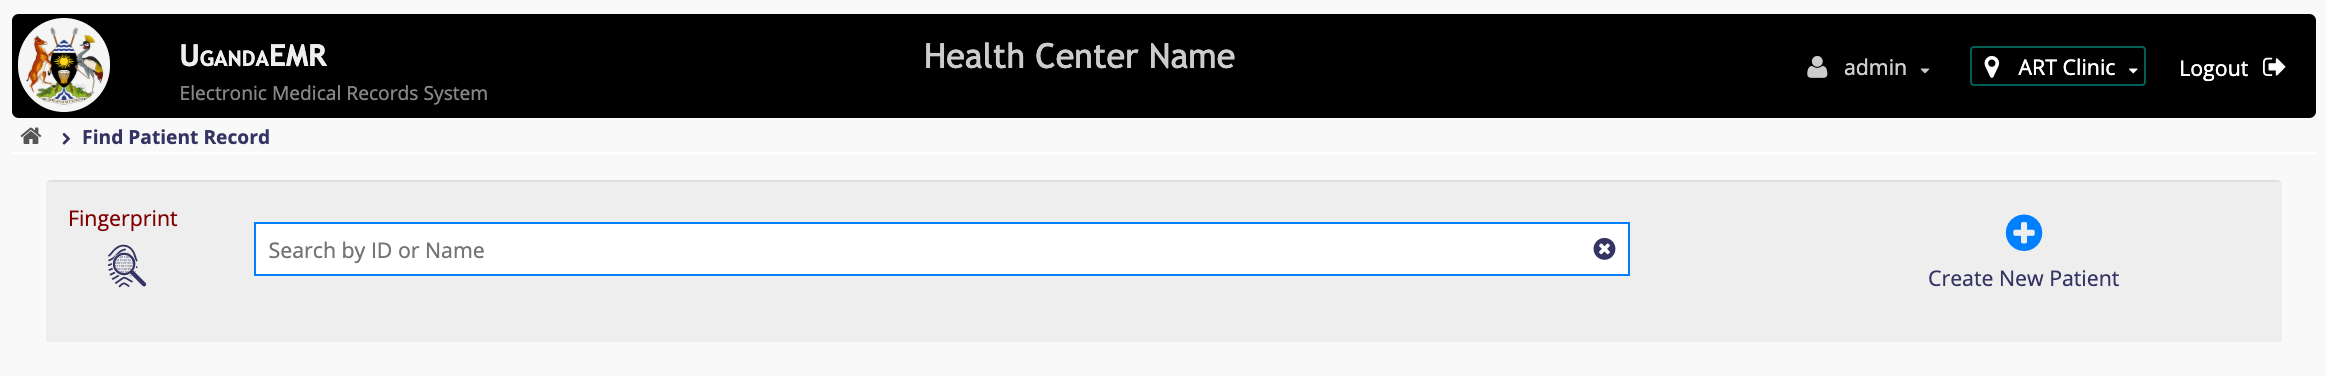
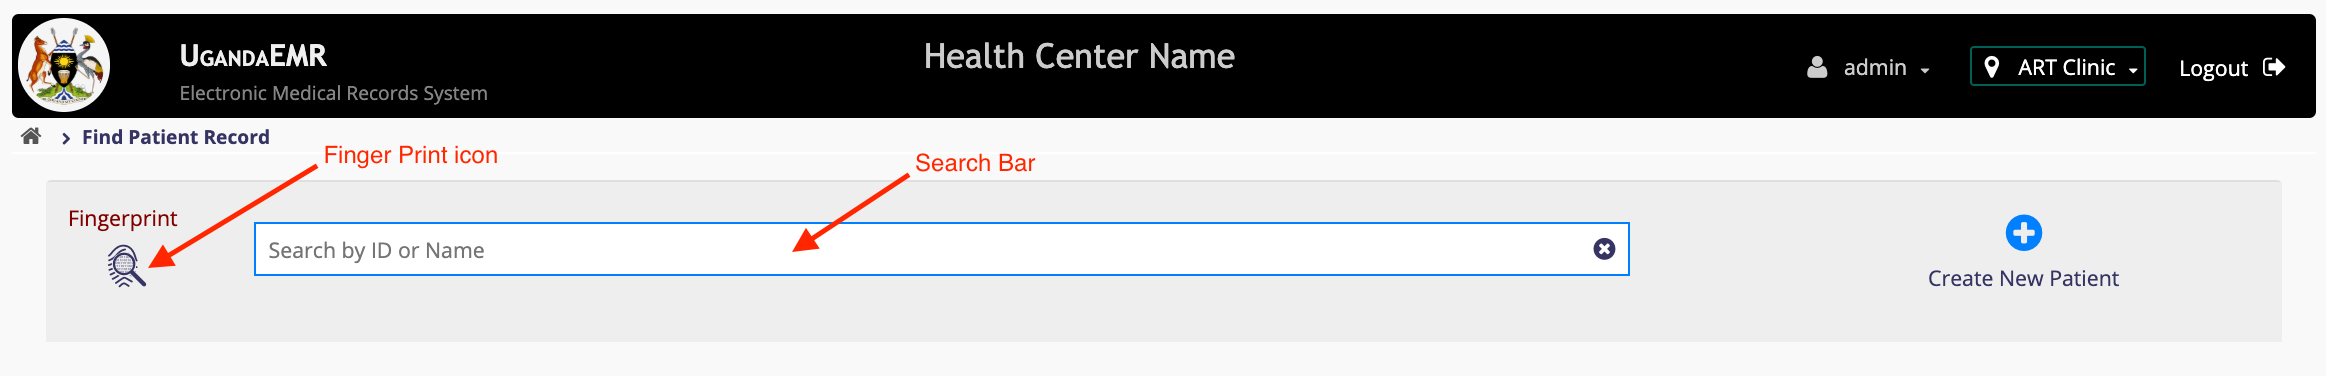
fingerprint documenattion

diff --git a/fingerprint/setup_configurations.md b/fingerprint/setup_configurations.md
@@ -1,0 +1,54 @@
+## Setup and Configuration of Fingerprint
+
+### General Setup
+#### Configure Fingerprint app
+In order to configure the fingerprint app there are two things that should be done. 
+ 1. Setting the username and password for the it to access the openmrs database. 
+ 2. UgandaEMR  Settings
+     
+       a ) [Login](../login.md) In UgandaEMR. This will navigate you to the _"Home"_ page
+       
+       b ) Click on the "System Administrator icon ![System Admin icon](../images/system_admin_icon.png). This will navigate you to the _" System Administration"_ page. 
+       
+       c ) Click on the Fingerprint Settings icon. ![Fingerprint Settings icon](../images/fingerprint_settings_icon.png). This will navigate you to the fingerprint settings
+       ![Fingerprint Settings Page](../images/fingerprint_setting_page.png)
+       
+       d ) In order to enable or disable a finger type _"true"_ to enable and _"false"_ to disable. 
+       
+       e ) The Socket IP Address is very important. It should be set to _"http://localhost:8084"_ if its not set, or different, change it to _"http://localhost:8084"_.
+       
+       f ) In order to save the changes, _"click the save"_ button. 
+      
+
+### Client Server Setup
+
+#### Client Machine
+1. Ensure UgandaEMR has been installed successfully: The you can ably login using your session like ART, SMC, OPD and the many more.
+
+2. Server and client computers must be on the same network: Ping the server address from your computer. Ping replies should be successful.
+
+3. [Download fingerprint connector](https://sourceforge.net/projects/ugandaemr/files/Others/fingerprint%20connector.zip/download) on your computer. 
+
+4. Unzip the download to a directory of your choice 
+
+5. In the fingerprint directory. Open the file _"fingerprintrun.bat"_ in any text editor of your choice. [Note pad ++ is preferred](https://notepad-plus-plus.org/).
+
+6. Replace _"localhost"_ with the IP address of the server.
+
+7.  Right click on the  _"fingerprintrun.bat"_ and Create shortcut to Desktop
+
+8. Go to Desktop and rename the Short to "Start Fingerprint". 
+
+9. May Change the icon of the shortcut. There is one provided in the fingerprint directory.
+
+#### Client Machine
+1. Launch mysql client
+2. Run the following commands below
+
+        Create user ‘openmrs’@’%’ identified by ‘openmrs’;
+        GRANT ALL PRIVILEGES on openmrs.* to ‘openmrs’@’%’
+3. Go to Windows Firewall, add inbound rules. In there, add ports 3306
+4. Do the same for Outbound rules
+
+
+

diff --git a/point-of-care-poc/work-flows/reception.md b/point-of-care-poc/work-flows/reception.md
@@ -1,6 +1,6 @@
 ### Reception Workflow
 The Receptionist requires a role called "Reception" which allows one to perform the following roles
-#### [Search for patient](To be determied)
+#### [Search for patient](../../search_patient.md)
 #### [Register a patient](../../patient_registration.md)
 #### [Edit patient demographics](../../patient_registration.md)
 #### Check in patient
@@ -10,7 +10,7 @@ In Order to check in a patient, a patient the user with _"reception"_ role must 
 2. On the Home Screen Click on the _"Find patient record"_ icon this will navigate you to the _"patient search"_ page.
 ![Search Page](../../images/poc/poc_search_patient_page.png)
 3. In the search box provided, type patient names or identifier. This will show a drop down list of patient (s) who match the typed details.
-**Note:** In case you need guidelines on searching by fingerprint refer to [This Link](To be determied)
+**Note:** In case you need guidelines on searching by fingerprint refer to [This Link](../../fingerprint/search_by_fingerprint.md)
 ![Search Page](../../images/poc/poc_patient_in_search_list.png)
 4. In the the Action column in the search list on a patient item, click on the ![checkin icon](../../images/poc/poc_checkin_icon.png). This should show a check in  dialogue popup
 ![Check in popup](../../images/poc/poc_check_in_popup.png)

diff --git a/fingerprint/search_by_fingerprint.md b/fingerprint/search_by_fingerprint.md
@@ -1,0 +1,15 @@
+# Search By Fingerprint
+Before searching by fingerprint, make sure that you have the right [configurations](setup_configurations.md). 
+
+1. On the Desktop launch the the "Start Fingerprint" icon. This will popup a black screen launching the fingerprint connector app.
+2. Minimize the launched black screen. **Note:** Do not close it. 
+3. Goto UgandaEMR and [Login](../login.md) with an account that has [role](../point-of-care-poc/installation-and-configuration/roles.md) _"Reception"_. This will Navigate you to the "Home" page.
+4. On the Home page, click on the _"Find Patient Record"_ This will navigate you to the search page.
+![Search Page](../images/poc/poc_search_patient_page.png)
+5. Click on the _"Fingerprint"_ icon. This will show instructions "Scan your finger".
+
+6. Ask the patient to put their finger on the fingerprint device. 
+    There are two possible outcomes. 
+  
+    a ) Patient found. This will make a patient appear in the patient list. 
+    b ) Patient not found. This will show a toast indicating that the patient was not found. 

diff --git a/search_patient.md b/search_patient.md
@@ -1,0 +1,7 @@
+## Search By Fingerprint
+3. Goto UgandaEMR and [Login](../login.md) with an account that has [role](../point-of-care-poc/installation-and-configuration/roles.md) _"Reception"_. This will Navigate you to the "Home" page.
+4. On the Home page, click on the _"Find Patient Record"_ This will navigate you to the search page.
+![Search Page](../images/poc/poc_search_patient_page.png)
+5. Enter patient name or Identifier in the Search bar. For any patient who appears matches the entered details, they will  appear in the patient list. 
+
+**Note:** To search patient by fingerprint go to [Search By Fingerprint](fingerprint/search_by_fingerprint.md)  section

diff --git a/SUMMARY.md b/SUMMARY.md
@@ -22,7 +22,9 @@
 * [Provider Management](provider_management.md)
   * [Creating a New Provider](creating_a_new_provider.md)
   * [Making an existing user a provider](making_an_existing_user_a_provider.md)
-* [Patient Registration](patient_registration.md)
+* Patient Management
+    * [Finding Patient](search_patient.md)
+    * [Patient Registration](patient_registration.md)
 * [Entering Client Information](data_entry.md)
   * [HIV Testing Services Client Card](hiv-testing-services-client-card.md)
   * [ART Card](art_card.md)

diff --git a/fingerprint/fingerprint_module.md b/fingerprint/fingerprint_module.md
@@ -1,0 +1,3 @@
+# Fingerprint Module
+
+## [Setup And Configuration](setup_configurations.md)
